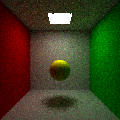
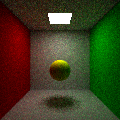
refactored code so it's simpler to implement mis

diff --git a/Source/RayTracing/scene.py b/Source/RayTracing/scene.py
@@ -119,13 +119,11 @@ class Scene:
                 p = hit.position
                 n = hit.normal
                 
-                Le, s, n_s = self.get_light_radiance(p,n)
-                w_i_l = glm.normalize(s - p)
-                geometric_factor = self.get_geometric_factor(p, n, s, n_s)
+                Le, w_i_l, geometric_factor, l_pdf = self.get_light_radiance(p,n)
                 
                 brdf =  material.brdf(n, w_i_l, -current_ray.direction)
                 
-                L += (Le * brdf) * beta
+                L += beta * Le * brdf / l_pdf
                 
                 w_i, pdf = material.get_sample(n, -current_ray.direction)
                 
@@ -135,7 +133,7 @@ class Scene:
                 
         return L
     
-    def get_light_radiance(self, p : glm.vec3, n : glm.vec3) -> tuple[float, glm.vec3, glm.vec3]:
+    def get_light_radiance(self, p : glm.vec3, n : glm.vec3) -> tuple[float, glm.vec3, float, float]:
         
         light_instance, lpdf = self.sample_light()
         
@@ -149,20 +147,23 @@ class Scene:
         
         (hit_instance, hit) = self.compute_intersection(ray)
         
-        if (light_instance is None):
+        # Ambient light ----------------------
+        if (light_instance is None): 
             if (hit_instance is None):
-                return self.ambient_light_power * max( 0, glm.dot(n, w_i) )  / (lpdf * pdf), s , n_s
+                return self.ambient_light_power * max( 0, glm.dot(n, w_i) ), w_i , 0, lpdf * pdf
             else:
-                return 0 , glm.vec3(0,0,0), glm.vec3(0,0,0)
+                return 0 , w_i, 0, lpdf * pdf
+        
+        # Regular light ----------------------
+        
+        geometric_factor = self.get_geometric_factor(p, n, s, n_s)
         
         if (hit_instance != light_instance):
-            return 0 , glm.vec3(0,0,0), glm.vec3(0,0,0)
-        
-        d = glm.length(s - p)
+            return 0 , w_i, geometric_factor, lpdf * pdf
         
         irradiance = light_instance.light.get_irradiance()
         
-        return ( irradiance * max( 0, glm.dot(n, w_i) ) * max( 0, glm.dot(n_s,-w_i) ) ) / ( d**2 * lpdf * pdf ), s, n_s
+        return ( irradiance * geometric_factor ), w_i, geometric_factor, lpdf * pdf
     
     
     def sample_light(self) -> tuple[LightInstance, float]:

diff --git a/Source/RayTracing/material.py b/Source/RayTracing/material.py
@@ -19,6 +19,9 @@ class Material:
     
     def brdf(self, n : glm.vec3, w_i : glm.vec3, w_o : glm.vec3) -> Color:
         return Color(1,0,1) # Not implemented pink color
+    
+    def get_sample_pdf(self, n : glm.vec3, w_i : glm.vec3) -> float:
+        pass
 
 class PhongMaterial(Material):
     
@@ -78,6 +81,9 @@ class PTDiffuseMaterial(Material):
         pdf = random_cosine_hemisphere_pdf(w_i, n)
                 
         return w_i, pdf
+    
+    def get_sample_pdf(self, n: glm.vec3, w_i: glm.vec3) -> float:
+        return random_cosine_hemisphere_pdf(w_i, n)
     
     
 
